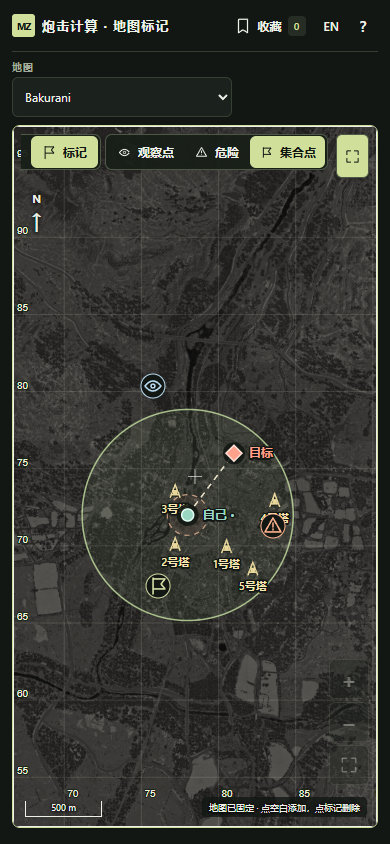
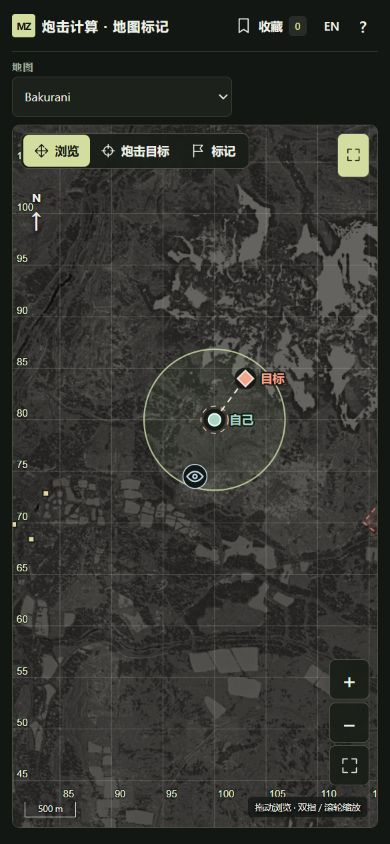
adjust

diff --git a/style.css b/style.css
@@ -4,7 +4,7 @@
 #app{max-width:1440px;margin:auto;height:100svh;height:100dvh;min-height:650px;padding:0 24px;display:flex;flex-direction:column}.topbar{display:flex;align-items:center;justify-content:space-between;min-height:66px;border-bottom:1px solid var(--line);gap:12px}h1{display:flex;align-items:center;gap:11px;font-size:17px;letter-spacing:.12em;font-weight:700;margin:0}.brand-mark{font-size:12px;letter-spacing:-1px;background:var(--accent);color:var(--bg);height:28px;width:28px;display:grid;place-items:center;border-radius:3px}.header-actions{display:flex;align-items:center;gap:4px}.readout{display:grid;grid-template-columns:1fr 1fr;padding:20px 0 18px;gap:28px}.metric{position:relative;display:grid;grid-template-columns:auto minmax(0,1fr);align-items:center;column-gap:8px}.metric>.eyebrow{white-space:nowrap}.metric>.status,.metric>.compass{grid-column:1/-1}.metric-value{display:flex;align-items:baseline;gap:12px;font-variant-numeric:tabular-nums}.metric-value output{font-family:"Bahnschrift","Arial",sans-serif;font-size:clamp(42px,4.5vw,64px);font-weight:600;letter-spacing:-2px;line-height:1.12}.unit,.direction{font-size:22px;color:var(--muted)}.direction{color:var(--accent);font-weight:600}.status{display:block;font-size:12px;min-height:18px;color:var(--muted);margin-top:6px}.metric[data-status=in] #distance,.metric[data-status=in] .status{color:var(--good)}.metric[data-status=near] #distance,.metric[data-status=far] #distance,.metric[data-status=near] .status,.metric[data-status=far] .status{color:var(--bad)}.bearing-metric{padding-left:28px;border-left:1px solid var(--line)}.compass{max-width:320px;height:20px;position:relative;overflow:hidden;color:var(--muted);font-size:9px;margin-top:5px;mask-image:linear-gradient(90deg,transparent,#000 10%,#000 90%,transparent)}.compass span{position:absolute;transform:translateX(-50%);padding-top:6px;line-height:12px}.compass span:before{content:"";position:absolute;left:50%;top:0;height:3px;border-left:1px solid #738169}.compass:after{content:"";position:absolute;left:50%;height:5px;border-left:2px solid var(--accent)}
 .selection{display:flex;align-items:center;gap:22px;padding:12px 0;border-top:1px solid var(--line)}.selection label{display:flex;align-items:center;gap:12px}.selection select{font-size:14px;color:var(--ink);border:1px solid var(--line);border-radius:6px;background:var(--panel);padding:0 30px 0 12px;height:44px;min-width:160px}.weapon-range{margin-left:auto;display:flex;align-items:center;gap:14px}.weapon-range strong{font-size:13px;font-weight:600;font-variant-numeric:tabular-nums}
 .map-panel{position:relative;flex:1;min-height:200px;background:#20271e;border:1px solid #4b5640;border-radius:8px;overflow:hidden;isolation:isolate}.map-panel:has(#place[aria-pressed=true]){border-color:var(--target)}#map-canvas{width:100%;height:100%;display:block;touch-action:none;user-select:none;cursor:grab}#map-canvas:active{cursor:grabbing}#map-panel.placing #map-canvas{cursor:crosshair}#base-map,#tiles{filter:brightness(.87) sepia(.16)}.map-top-controls{position:absolute;top:12px;left:12px;right:12px;display:flex;justify-content:space-between;align-items:start;gap:8px;pointer-events:none}.map-top-controls>*{pointer-events:auto}.mode-switch{display:flex;border:1px solid #4c5845;border-radius:7px;padding:1px 2px;background:#171e17f0;box-shadow:0 2px 12px #0003}.mode-switch button{min-height:34px;padding:4px 14px}.mode-switch #place[aria-pressed=true]{background:var(--target)}.map-button{border-color:#4c5845;background:#171e17ef;box-shadow:0 2px 12px #0003}.map-button:hover{background:#313c2e}.zoom-controls{position:absolute;right:12px;bottom:47px;display:flex;flex-direction:column;gap:5px}.north{position:absolute;left:22px;top:82px;font-size:11px;text-shadow:0 1px 4px #000;font-weight:700;display:flex;align-items:center;flex-direction:column;pointer-events:none}.north span{font-size:28px;line-height:30px}.map-bottom{position:absolute;left:16px;right:16px;bottom:12px;display:flex;align-items:end;justify-content:space-between;gap:16px;pointer-events:none;font-size:11px;text-shadow:0 1px 3px #000,0 0 5px #000}#scale-bar{border:1px solid #edf1e8;border-top:0;text-align:center;min-width:30px;padding-bottom:3px;white-space:nowrap}#map-hint{background:#121713c9;border-radius:4px;padding:4px 7px;max-width:70%;text-align:right}.map-notice{position:absolute;top:50%;left:50%;transform:translate(-50%,-50%);padding:12px 16px;background:#121713e8;border:1px solid var(--line);border-radius:6px;font-size:13px;max-width:80%;text-align:center}
-.coordinates{display:grid;grid-template-columns:minmax(0,1fr) 44px minmax(0,1fr);gap:12px;padding:14px 0 8px}#swap-coordinates{align-self:center;border-color:var(--line);color:var(--accent)}.coordinate-card{min-width:0;--point:var(--origin)}.target-card{--point:var(--target)}.coordinate-heading{display:flex;align-items:center;justify-content:space-between;gap:8px;margin-bottom:5px}.coordinate-heading h2{font-size:14px;display:flex;align-items:center;gap:7px;margin:0;white-space:nowrap}.coordinate-heading small{font-size:11px;font-weight:400;color:var(--muted)}.point-dot{width:8px;height:8px;border-radius:50%;background:var(--point)}.target-card .point-dot{border-radius:1px;transform:rotate(45deg)}.point-actions{display:flex;gap:2px}.point-actions button{color:var(--muted);font-size:12px;padding:8px}.point-actions button[aria-pressed=true]{background:#333f2e;color:var(--accent)}.coordinate-inputs{display:flex;align-items:center;gap:8px}.coordinate-inputs label{display:flex;align-items:center;gap:10px;min-width:0;flex:1;background:var(--field);border:1px solid #43503d;border-radius:6px;padding:0 12px;height:48px}.coordinate-inputs label:focus-within{border-color:var(--point)}.coordinate-inputs label span{font-size:12px;color:var(--point);font-weight:700}.coordinate-inputs input{width:100%;min-width:0;color:var(--ink);background:transparent;border:0;outline:none;font-size:20px;font-variant-numeric:tabular-nums;padding:8px 0}.coordinate-inputs input:disabled{color:var(--muted)}.coordinate-inputs label:has(input[aria-invalid=true]){border-color:var(--bad)}.save-point{border:1px solid var(--line);height:48px;color:var(--muted)}.input-error{font-size:11px;color:var(--bad);margin:6px 0 0}footer{display:flex;align-items:center;justify-content:space-between;font-size:10px;color:var(--muted);min-height:28px;padding-bottom:env(safe-area-inset-bottom)}footer>span:last-child{display:flex;align-items:center;gap:6px}footer i{display:inline-block;width:5px;height:5px;border-radius:50%;margin-left:8px}.origin-key{background:var(--origin)}.target-key{background:var(--target)}
+.coordinates{display:grid;grid-template-columns:minmax(0,1fr) 44px minmax(0,1fr);gap:8px;padding:14px 0 8px}#swap-coordinates{align-self:center;border-color:var(--line);color:var(--accent)}.coordinate-card{min-width:0;--point:var(--origin)}.target-card{--point:var(--target)}.coordinate-heading{display:flex;align-items:center;justify-content:space-between;gap:8px;margin-bottom:5px}.coordinate-heading h2{font-size:14px;display:flex;align-items:center;gap:7px;margin:0;white-space:nowrap}.coordinate-heading small{font-size:11px;font-weight:400;color:var(--muted)}.point-dot{width:8px;height:8px;border-radius:50%;background:var(--point)}.target-card .point-dot{border-radius:1px;transform:rotate(45deg)}.point-actions{display:flex;gap:2px}.point-actions button{color:var(--muted);font-size:12px;padding:8px}.point-actions button[aria-pressed=true]{background:#333f2e;color:var(--accent)}.coordinate-inputs{display:flex;align-items:center;gap:8px}.coordinate-inputs label{display:flex;align-items:center;gap:10px;min-width:0;flex:1;background:var(--field);border:1px solid #43503d;border-radius:6px;padding:0 12px;height:48px}.coordinate-inputs label:focus-within{border-color:var(--point)}.coordinate-inputs label span{font-size:12px;color:var(--point);font-weight:700}.coordinate-inputs input{width:100%;min-width:0;color:var(--ink);background:transparent;border:0;outline:none;font-size:20px;font-variant-numeric:tabular-nums;padding:8px 0}.coordinate-inputs input:disabled{color:var(--muted)}.coordinate-inputs label:has(input[aria-invalid=true]){border-color:var(--bad)}.save-point{border:1px solid var(--line);height:48px;color:var(--muted)}.input-error{font-size:11px;color:var(--bad);margin:6px 0 0}footer{display:flex;align-items:center;justify-content:space-between;font-size:10px;color:var(--muted);min-height:28px;padding-bottom:env(safe-area-inset-bottom)}footer>span:last-child{display:flex;align-items:center;gap:6px}footer i{display:inline-block;width:5px;height:5px;border-radius:50%;margin-left:8px}.origin-key{background:var(--origin)}.target-key{background:var(--target)}
 body.map-only .readout,body.map-only .weapon-picker,body.map-only .weapon-range,body.map-only .coordinates,body.map-only footer{display:none}body.map-only #app{padding-bottom:16px}body.map-only .selection{border-top:0}body.map-only .map-panel{min-height:260px}
 dialog{background:var(--panel);border:1px solid #4b5843;border-radius:12px;color:var(--ink);padding:20px;width:min(480px,calc(100% - 24px));max-height:85dvh;box-shadow:0 20px 90px #0008}dialog::backdrop{background:#080d08b8;backdrop-filter:blur(3px)}.dialog-heading{display:flex;align-items:center;justify-content:space-between;gap:10px}.dialog-heading h2{margin:0;font-size:20px}dialog p{font-size:14px;line-height:1.7}#save-form{margin:18px 0}#save-form label{font-size:13px}.save-name-row{display:flex;gap:8px;margin-top:8px}#saved-name{background:var(--field);border:1px solid var(--line);border-radius:6px;color:var(--ink);font-size:16px;padding:10px;min-width:0;width:100%}.primary{background:var(--accent);color:var(--bg);padding:10px 18px}.saved-item{border-top:1px solid var(--line);padding:12px 0}.saved-item strong{display:block;overflow-wrap:anywhere;font-size:14px}.saved-item .saved-coordinates{font-size:12px;color:var(--muted);font-variant-numeric:tabular-nums;margin:5px 0}.saved-actions{display:flex;gap:6px}.saved-actions button{border:1px solid var(--line);font-size:12px}.saved-actions button:last-child{margin-left:auto}.empty-saved{padding:24px 0;text-align:center;color:var(--muted)}#toast{position:fixed;left:50%;bottom:max(24px,env(safe-area-inset-bottom));transform:translateX(-50%);background:var(--ink);color:var(--bg);border-radius:8px;padding:12px 18px;z-index:5;font-size:13px;max-width:90vw;text-align:center;box-shadow:0 8px 40px #0008}#toast button{margin-left:10px;min-height:28px;padding:2px 8px;color:var(--bg);text-decoration:underline}[hidden]{display:none!important}
 @media(min-width:1500px){#app{padding-top:10px;padding-bottom:10px}}
@@ -22,23 +22,23 @@ dialog #toast{position:sticky;left:auto;bottom:0;transform:none;max-width:100%;m
   .bearing-metric{padding-left:12px}
   .status{min-height:14px;margin-top:2px}
   .compass{height:17px;margin-top:2px;font-size:8px}
-  .coordinates{gap:5px;padding:5px 0 2px}
-  #swap-coordinates{grid-column:1;grid-row:1/3}
+  .coordinates{grid-template-columns:36px minmax(0,1fr);gap:3px;padding:5px 0 2px}
+  #swap-coordinates{grid-column:1;grid-row:1/3;width:36px;min-width:36px;padding:6px}
   #swap-coordinates .icon{transform:rotate(90deg)}
   .coordinates>.coordinate-card{grid-column:2}
-  .coordinate-card{display:grid;grid-template-columns:repeat(2,minmax(0,1fr)) repeat(3,44px);gap:3px 4px;align-items:center}
+  .coordinate-card{display:grid;grid-template-columns:repeat(2,minmax(0,1fr)) repeat(3,36px);gap:3px 2px;align-items:center}
   .coordinate-heading,.coordinate-inputs,.point-actions{display:contents}
   .coordinate-heading h2{grid-column:1/-1;grid-row:1;line-height:16px}
-  .coordinate-inputs label{grid-row:2;padding:0 6px;gap:4px}
+  .coordinate-inputs label{grid-row:2;padding:0 4px;gap:3px}
   .coordinate-inputs label:first-child{grid-column:1}
   .coordinate-inputs label:nth-child(2){grid-column:2}
   .coordinate-inputs input{font-size:16px}
-  .point-actions button{grid-row:2;min-height:44px;width:44px;padding:4px}
+  .point-actions button{grid-row:2;min-height:44px;width:36px;padding:2px}
   .point-actions button:first-child{grid-column:3}
   .point-actions button:last-child{grid-column:4}
   .point-actions button span{position:absolute;width:1px;height:1px;overflow:hidden;clip-path:inset(50%)}
   .point-actions .icon{width:18px;height:18px}
-  .save-point{grid-row:2;grid-column:5}
+  .save-point{grid-row:2;grid-column:5;width:36px;min-width:36px;padding:6px}
   .input-error{grid-column:1/-1;margin:0}
   footer{min-height:20px}
 }

diff --git a/tests/coordinate-swap.html b/tests/coordinate-swap.html
@@ -19,7 +19,14 @@ try {
   doc.querySelector('#map').value = 'bakurani';
   doc.querySelector('#map').dispatchEvent(new frame.contentWindow.Event('change'));
   for (const key of ['origin','target']) if (doc.getElementById(key+'-lock').getAttribute('aria-pressed') === 'true') click(key+'-lock');
+  doc.querySelector('#weapon').value = 'mortar';
+  doc.querySelector('#weapon').dispatchEvent(new frame.contentWindow.Event('change'));
   for (const [id,value] of Object.entries({'origin-x':'100','origin-y':'80','target-x':'103','target-y':'84'})) input(id,value);
+  await new Promise(resolve => frame.contentWindow.requestAnimationFrame(resolve));
+  const fill = doc.querySelector('#range-fill');
+  const at = x => fill.isPointInFill(new frame.contentWindow.DOMPoint(x,0));
+  check(!at(0) && !at(1) && at(3) && !at(7), 'Only the 132–684 m firing annulus should be filled');
+  check([...doc.querySelectorAll('#overlays>circle')].every(circle => circle.getAttribute('fill') === 'none'), 'Range outlines must not fill the inner dead zone');
   const distance = doc.querySelector('#distance').textContent;
   const bearing = Number(doc.querySelector('#bearing').textContent);
   click('swap-coordinates');
@@ -36,17 +43,23 @@ try {
   }
   const rect = selector => doc.querySelector(selector).getBoundingClientRect();
   check(rect('.target-card').right <= rect('#swap-coordinates').left && rect('#swap-coordinates').right <= rect('.origin-card').left, 'Wide layout: button between cards');
+  for (const id of ['origin-x','origin-y','target-x','target-y']) input(id,'100.00');
   for (const width of [390,320]) {
     frame.width = width;
     await new Promise(resolve => frame.contentWindow.requestAnimationFrame(() => frame.contentWindow.requestAnimationFrame(resolve)));
     check(rect('#swap-coordinates').right <= rect('.target-card').left && rect('#swap-coordinates').right <= rect('.origin-card').left, 'Mobile layout: button left of both cards');
     check(rect('.target-card').bottom <= rect('.origin-card').top, 'Mobile cards must stack');
     check(doc.documentElement.scrollWidth <= width, 'Mobile layout must not overflow');
+    const measure = doc.createElement('canvas').getContext('2d');
+    for (const field of doc.querySelectorAll('.coordinate-inputs input')) {
+      measure.font = frame.contentWindow.getComputedStyle(field).font;
+      check(field.clientWidth >= measure.measureText('100.00').width + 1, 'Three-digit coordinates with two decimals must fit');
+    }
   }
   click('origin-clear'); input('target-x','invalid'); input('target-y',''); click('swap-coordinates');
   check(doc.querySelector('#origin-x').value === 'invalid' && doc.querySelector('#origin-x').getAttribute('aria-invalid') === 'true' && doc.querySelector('#target-x').value === '', 'Partial or invalid inputs must be preserved and revalidated');
   click('origin-clear'); check(doc.querySelector('#swap-coordinates').disabled, 'Empty coordinates have nothing to swap');
-  result.textContent = 'PASS: swapping, calculation, persistence, locks, partial input, and desktop/mobile layout.';
+  result.textContent = 'PASS: range annulus, swapping, calculation, persistence, locks, partial input, and desktop/mobile layout.';
 } catch (error) { result.textContent = `FAIL: ${error.message}`; throw error; }
 finally {
   if (stored === null) localStorage.removeItem('mz-wardogs-v1'); else localStorage.setItem('mz-wardogs-v1',stored);

diff --git a/app.js b/app.js
@@ -255,8 +255,13 @@ function renderMap() {
   }
   const origin=point('origin'),target=point('target'),weapon=weapons[weaponId];
   if(origin){
-    overlays.append(svg('circle',{cx:origin.x,cy:-origin.y,r:weapon.max/100,fill:'#b5e49a','fill-opacity':'.07',stroke:'#bed99c','stroke-opacity':'.85','stroke-width':1.5,'vector-effect':'non-scaling-stroke','aria-label':`${t('rangeCircle')} ${weapon.max} m`}));
-    overlays.append(svg('circle',{cx:origin.x,cy:-origin.y,r:weapon.min/100,fill:'#ff9a86','fill-opacity':'.06',stroke:'#f0bb9a','stroke-dasharray':'5 5','stroke-width':1,'vector-effect':'non-scaling-stroke','aria-label':`${t('minCircle')} ${weapon.min} m`}));
+    const ring = [weapon.max,weapon.min].map(m => {
+      const r=m/100;
+      return `M${-r} 0a${r} ${r} 0 1 0 ${2*r} 0a${r} ${r} 0 1 0 ${-2*r} 0Z`;
+    }).join(' ');
+    overlays.append(svg('path',{id:'range-fill',d:ring,transform:`translate(${origin.x} ${-origin.y})`,fill:'#b5e49a','fill-opacity':'.07','fill-rule':'evenodd','pointer-events':'none'}));
+    overlays.append(svg('circle',{cx:origin.x,cy:-origin.y,r:weapon.max/100,fill:'none',stroke:'#bed99c','stroke-opacity':'.85','stroke-width':1.5,'vector-effect':'non-scaling-stroke','aria-label':`${t('rangeCircle')} ${weapon.max} m`}));
+    overlays.append(svg('circle',{cx:origin.x,cy:-origin.y,r:weapon.min/100,fill:'none',stroke:'#f0bb9a','stroke-dasharray':'5 5','stroke-width':1,'vector-effect':'non-scaling-stroke','aria-label':`${t('minCircle')} ${weapon.min} m`}));
   }
   if(origin&&target) overlays.append(svg('line',{x1:origin.x,y1:-origin.y,x2:target.x,y2:-target.y,stroke:'#f0e8ce','stroke-width':1.5,'stroke-dasharray':'6 5','vector-effect':'non-scaling-stroke'}));
   for(const [number,tx,ty] of towers[mapId]) {

diff --git a/index.html b/index.html
@@ -9,8 +9,8 @@
   <title>炮击计算 · 地图标记 | WARDOGS</title>
   <link rel="canonical" href="https://mqzh.science/wdtool/">
   <link rel="icon" href="./favicon.svg" type="image/svg+xml">
-  <link rel="stylesheet" href="./style.css?v=coordinate-swap-1">
-  <script type="module" src="./app.js?v=coordinate-swap-1"></script>
+  <link rel="stylesheet" href="./style.css?v=compact-coordinates-1">
+  <script type="module" src="./app.js?v=range-ring-1"></script>
 </head>
 <body>
 <main id="app">

diff --git a/README.md b/README.md
@@ -14,7 +14,7 @@
 
 | 手机端 · 炮击计算 | 手机端 · 展开地图与标记 |
 | --- | --- |
-| <img src="docs/screenshots/mobile.png" alt="手机计算界面：L81 迫击炮距离 500 米、方位 37 NE，自己的坐标已锁定" width="390"> | <img src="docs/screenshots/mobile-map.png" alt="手机展开地图：观察点、危险和集合点标记与射程圈同时显示" width="390"> |
+| <img src="docs/screenshots/mobile.png" alt="手机计算界面：L81 迫击炮距离 500 米、方位 37 NE，三位数坐标完整显示，左侧按钮可互换自己与目标" width="390"> | <img src="docs/screenshots/mobile-map.png" alt="手机展开地图：地图标记与环形射程区域同时显示" width="390"> |
 
 截图取自本项目实际运行界面（2026-09-14），使用示例坐标。地图影像归 BULKHEAD / 相应权利人所有，详见 [第三方声明](THIRD_PARTY_NOTICES.md)。
 
@@ -37,10 +37,11 @@ node scripts/vendor-maps.mjs --verify
 - 三张地图均叠加 VALKYRA、MANTICORE、LONESTAR 出生区边界和名称，采用原站的出生区多边形。其余预设标记是阵营点、武器商店、车库商店与重生面板；本工具不重复添加这些标记，也不添加原站的手动战术标记库或等高线。
 - 「标记」提供观察点、危险、集合点三种图标。该模式固定地图，点空白处连续添加，点已有标记删除；添加/删除均支持限时撤销。标记按地图保存在当前浏览器，独立于自己/目标坐标及其锁定状态；展开地图时也可使用。键盘聚焦地图后按 Enter 可在中心添加/删除标记。
 - 自己的位置只从输入框或已收藏坐标载入，不接受地图点选。
+- 互换按钮一次交换自己与目标的 X/Y，自动更新计算与地图并保存；手机竖排时在左侧，桌面横排时在两组坐标中间。任意一组锁定时需先解锁。
 - 独立锁定保护输入、清空与载入；自己的锁不会影响目标。换图保留各地图独立状态。
 - 坐标使用游戏 X/Y：X 向东增加，Y 向北增加，0.01 = 1 m。支持小数点 / 小数逗号，最多两位小数；越界不截断、不用于计算。
 - 平面距离以米显示；方位使用游戏 HUD 的整数角度 + 方向字母，如 `253 W`。北 0，东 90，南 180，西 270。同一点不显示虚假方位。
-- 射程内绿色，过近 / 超射程红色，同时显示文字。实线最大射程圈、虚线最小射程圈以自己为中心。
+- 射程内绿色，过近 / 超射程红色，同时显示文字。实线最大射程圈、虚线最小射程圈以自己为中心；只填色两圈之间的有效射程，内圈过近区域与外圈之外不填色。
 - 「展开地图」收起计算与输入，保留位置与缩放；仍可选择地图。
 - 收藏使用 localStorage（比 cookie 更适合不需要服务器的本地数据），按地图分类；可以命名、载入自己 / 目标、删除和限时撤销。清除网站数据会清除收藏。
 - 键盘：地图聚焦后方向键平移，+/− 缩放；放置模式下 Enter 放在中心。原生对话框支持 Escape 关闭。
@@ -94,11 +95,27 @@ WARDOGS 名称、商标、地图影像及其他游戏素材归各自权利人所
 
 所有应用资源使用相对路径，支持在本地或其他子目录运行。
 
+### Cloudflare 缓存与地图更新
+
+截至 2026-09-14，`mqzh.science` 和 `www` 已启用 Cloudflare DNS 记录的 **Proxied（橙云）**，GitHub Pages 仍是源站。图片由 **Cloudflare CDN 缓存，不是 DNS 缓存图片**。缓存级别为 **Standard**，Browser Cache TTL 为 **Respect Existing Headers**；当时地图响应为 `Cache-Control: max-age=600`，已实测 `CF-Cache-Status: HIT`。大陆访问效果需另行实测。
+
+更新地图时：
+
+1. 更新仓库里的 `assets/maps/`、`manifest.json` 和对应来源记录；下载器会跳过已校验文件，单纯再运行它不会自动发现同 URL 上被替换的上游图片。
+2. 运行 `node scripts/vendor-maps.mjs --verify`，推送更新，等待个人网站的 **Publish website** 部署成功。部署必须复制完整的 `assets/maps/`，否则图片会返回 404。
+3. 在 Cloudflare 选择 `mqzh.science` → **Caching → Configuration → Custom Purge → Prefix**，输入 `mqzh.science/wdtool/`（不加 `https://`），点击 **Purge**。先部署再清缓存，避免重新缓存旧文件或 404。
+4. 浏览器强制刷新后检查更新的地图图片。Cloudflare 清缓存不会删除用户浏览器已有的缓存；必要时清除该站点缓存或等待缓存过期。可用 `curl -I https://mqzh.science/wdtool/assets/maps/bakurani/zoom_0/0_0.webp` 检查状态应为 200，重复访问可观察 `CF-Cache-Status: HIT`。
+
+这些设置只影响线上分发，本地断网运行不依赖 Cloudflare。
+
+
 自托管时复制 `index.html`、`style.css`、`app.js`、`core.mjs`、`favicon.svg`、`THIRD_PARTY_NOTICES.md` 和完整的 `assets/maps/` 目录到任意静态 HTTP 服务即可。无需 API、上游 CDN、安装依赖或构建步骤。`scripts/vendor-maps.mjs` 是维护用的一次性下载器，正常使用与部署不需要运行；无参数执行会访问原始来源，跳过已经通过校验的文件。
 
 ## 已验证
 
-本地服务启动后，打开 `/tests/map-loading.html` 可运行加载错误恢复检查，页面应显示 `PASS`；覆盖成功重载、缩放 / 平移移除失败瓦片，以及旧瓦片的延迟错误事件。
+本地服务启动后，打开 `/tests/coordinate-swap.html` 可检查坐标互换、保存、锁定、环形射程填色和手机 / 桌面布局，页面应显示 `PASS`。
+
+打开 `/tests/map-loading.html` 可运行加载错误恢复检查，页面应显示 `PASS`；覆盖成功重载、缩放 / 平移移除失败瓦片，以及旧瓦片的延迟错误事件。
 
 `node scripts/vendor-maps.mjs --verify` 已核对全部 23,880 张瓦片的覆盖范围、WebP 文件格式与 SHA-256，并验证能拒绝被修改的图片。自托管浏览器检查在阻断外网请求的条件下覆盖三张地图、桌面与手机、逐级放大至最高精度及地图四角，738 次本站请求中外部请求为 0，无图片缺失或脚本错误。个人网站构建测试逐一检查部署目录中的瓦片文件与大小。
 
